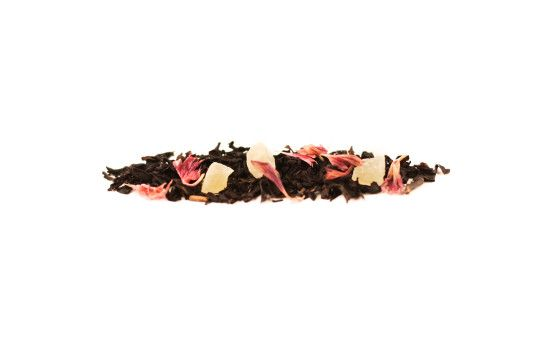
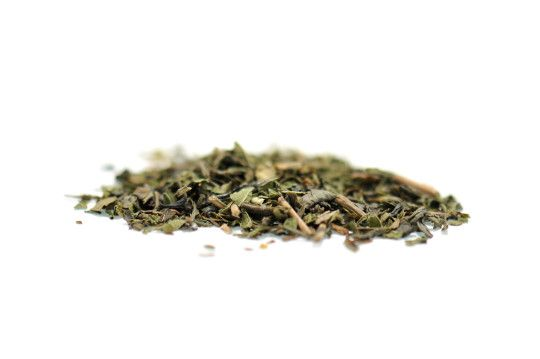
Tea ceremony.

Changed region(s): [[0.1185, 0.3983, 0.8889, 0.7047], [0.3556, 0.6741, 0.4148, 0.7354]]

diff --git a/public/views/home.html b/public/views/home.html
@@ -73,20 +73,60 @@
     <br/><br/><br/>
   </div>
 
+  <div class="col-lg-12">
+    <div class="col-lg-6 ">
+      <h3>Tecermoni</h3>
+    </div>
+    <div class="col-lg-6 ">
+    </div>
+  </div>
+
+<div class="col-lg-12">
+  <div class="col-lg-5">
+    <p>Hej på er alla tevänner!<br/><br/>
+      Boka in Lördag den 7/11 kl 15.00.<br/><br/>
+      Vi har ett fantastiskt erbjudande till er som vill lära er mer om gammal Japansk tetradition!<br/><br/>
+      Gunnel Hillås från Japanska thesällskapet som är utbildad i detta ämne både i Sverige och Japan, har möjlighet att ta med oss på en "resa" om teets väg (Chado). Vi får vara med om en Japansk teceremoni (Ryakubon) med tillhörande presentation. Te och kaka ingår.<br/><br/>
+      Träffen väntas ta ca 1,5-2 tim.<br/>
+      Biljettpris: 250:-<br/>
+      Plats: En kopp te<br/>
+      Först till kvarn....<br/></p>
+  </div>
+  <div class="col-lg-7">
+    <div class="col-lg-12" style="">
+      <img src="../images/tea_ceremony.jpg" alt="..." style="width:100%; height:auto;"></img>
+    </div>
+    <div class="col-lg-4" style="">
+      <img src="../images/tea_ceremony_cup1.jpg" alt="..." style="width:100%; height:auto;"></img>
+    </div>
+    <div class="col-lg-4" style="">
+      <img src="../images/tea_ceremony_cup2.jpg" alt="..." style="width:100%; height:auto;"></img>
+    </div>
+    <div class="col-lg-4" style="">
+      <img src="../images/tea_ceremony_signs.jpg" alt="..." style="width:100%; height:auto;"></img>
+    </div>
+  </div>
+</div>
+
+<div class="col-lg-12">
+  <p><br/><br/><br/></p>
+</div>
+
+
   <div class="col-lg-12" style="">
     <div class="col-lg-6" style="">
       <h1>Veckans te  10% i butiken</h1>
-      <h2>Camu Camu</h2>
+      <h2>Marrakech</h2>
       <img src="../images/tea_of_the_week.jpg" alt="..." style="width:auto; height:300px"></img>
-      <p>Frukt är godis, visst vi hörde det när vi var barn, men var alltid lite skeptiska. Tills nu! Från Amazonas kommer det fler och fler spännande smaker som vi bara inte kan motstå. Här har vi kombinerat c-vitaminbomben Camu camu med den söta lucumafrukten och fått ett te som du aldrig har upplevt förut. Aromerna för minnet till citronkola och kanske lite vanilj men utan att bli klängigt söt eller vasst syrlig. Perfekt för alla som vill ha ett runt fylligt te med friska toner.
+      <p>I Marocko har man sedan flera hundra år druckit te tillsammans med mynta. Det är friskt och svalkande, och vi har faktiskt mycket att tacka dåtidens stora handelscentrum. Utan enkla örtiga smakkombinationer som denna kanske vi inte hade haft vår nordiska tekultur.
 	<br/><br/>
-	Bryggning: Tekanna
+	Bryggning: Kopp/glas/kanna
 	<br/>
-	Temperatur: 95-100 grader
+	Temperatur: 75-85 grader
 	<br/>
 	Mängd: 1 tsk/2dl
 	<br/>
-	Tid: 2-4 min
+	Tid: 1-3 min
 	<br/><br/><br/>
       </p>
     </div>
